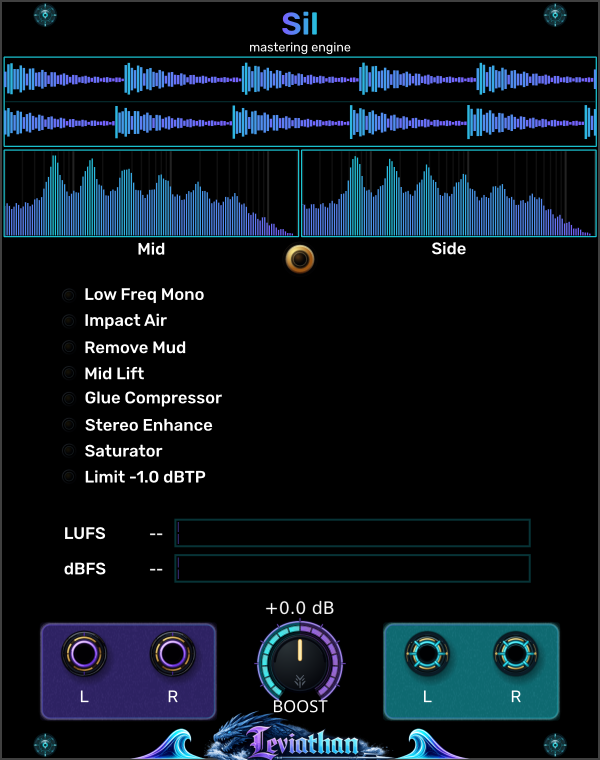
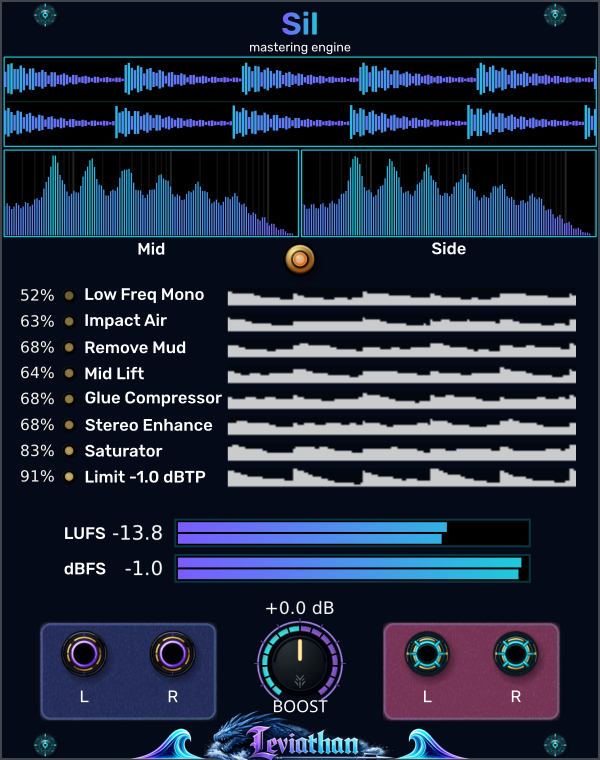
Update Sil manual

diff --git a/manuals/Sil_User_Manual.html b/manuals/Sil_User_Manual.html
@@ -1,0 +1,239 @@
+<!doctype html>
+<html lang="en"><head><meta charset="utf-8"><meta name="viewport" content="width=device-width, initial-scale=1"><meta name="description" content="Sil user manual: hear what each adaptive mastering stage changes, understand the signal chain, and use Boost, meters and bypass for useful comparisons."><title>Sil User Manual - Leviathan</title><style>
+:root {
+  color-scheme: dark;
+  --ink:#eef6ff; --muted:#a9b7c8; --deep:#070b12; --panel:#0e1520; --panel2:#121b29;
+  --cyan:#1cccd9; --purple:#7a5cff; --gold:#ebcc80; --line:#26364a; --paper:#f7f9fc;
+  --shadow:0 22px 60px rgba(0,0,0,.38);
+}
+* { box-sizing:border-box; }
+html { scroll-behavior:smooth; }
+body { margin:0; font-family:Inter,ui-sans-serif,system-ui,-apple-system,"Segoe UI",sans-serif; background:radial-gradient(circle at 78% 10%,rgba(122,92,255,.14),transparent 30rem),radial-gradient(circle at 18% 22%,rgba(28,204,217,.11),transparent 28rem),var(--deep); color:var(--ink); line-height:1.62; }
+a { color:#7feaf1; }
+.layout { display:grid; grid-template-columns:250px minmax(0,1fr); max-width:1500px; margin:auto; }
+nav { position:sticky; top:0; height:100vh; padding:30px 24px; border-right:1px solid var(--line); background:rgba(7,11,18,.9); backdrop-filter:blur(18px); overflow:auto; }
+nav .brand-home { display:block; padding:0; border-radius:7px; }
+nav .brand-home:focus-visible { outline:2px solid var(--cyan); outline-offset:4px; }
+nav .brand-lockup { display:block; width:100%; max-width:200px; height:auto; margin:0 0 20px; border-radius:7px; box-shadow:0 10px 30px rgba(0,0,0,.28); }
+nav .brand { font-size:1.25rem; letter-spacing:.18em; font-weight:800; margin-bottom:2px; }
+nav .sub { color:var(--muted); font-size:.75rem; margin-bottom:28px; }
+nav a { display:block; color:#c7d3e1; text-decoration:none; padding:7px 0; font-size:.88rem; }
+nav a:hover { color:#fff; transform:translateX(2px); }
+nav .nav-actions { margin-top:24px; }
+button { border:1px solid rgba(28,204,217,.55); background:rgba(28,204,217,.1); color:var(--ink); padding:9px 12px; border-radius:999px; cursor:pointer; }
+main { min-width:0; }
+.hero { min-height:740px; display:grid; grid-template-columns:minmax(0,1fr) minmax(200px,320px); gap:40px; align-items:center; padding:80px clamp(32px,7vw,110px); overflow:hidden; }
+.dragon-divider { position:relative; height:48px; }
+.dragon-divider img { position:absolute; left:50%; top:50%; display:block; width:min(78%,900px); height:auto; transform:translate(-50%,-50%); opacity:.42; filter:drop-shadow(0 0 22px rgba(28,204,217,.16)); pointer-events:none; user-select:none; }
+.kicker,.eyebrow { color:var(--cyan); text-transform:uppercase; letter-spacing:.2em; font-size:.72rem; font-weight:800; }
+h1 { font-size:clamp(4rem,9vw,8.2rem); line-height:.86; letter-spacing:-.075em; margin:16px 0 28px; background:linear-gradient(100deg,#865cff 0%,#c9a8ff 27%,#f6f9ff 49%,#77eaff 72%,#1cccd9 100%); -webkit-background-clip:text; background-clip:text; color:transparent; filter:drop-shadow(0 10px 28px rgba(50,124,210,.14)); }
+.deck { font-size:clamp(1.08rem,2vw,1.4rem); max-width:680px; color:#d4e0ed; }
+.chips { display:flex; flex-wrap:wrap; gap:8px; margin-top:28px; }
+.chip { border:1px solid var(--line); background:rgba(255,255,255,.035); border-radius:999px; padding:7px 11px; color:#c9d6e4; font-size:.8rem; }
+.hero-modules { display:flex; align-items:center; justify-content:center; gap:24px; perspective:1200px; }
+.hero-modules img { width:min(75%,240px); height:auto; border:1px solid rgba(255,255,255,.16); border-radius:12px; box-shadow:var(--shadow); transform:rotateY(-5deg) translateY(8px); }
+section { position:relative; isolation:isolate; padding:70px clamp(32px,7vw,110px); border-bottom:1px solid var(--line); scroll-margin-top:20px; overflow:hidden; }
+section::before { position:absolute; z-index:0; bottom:0; width:min(58vw,650px); aspect-ratio:959/376; background:url("../img/PerfectWave_KCrop.png") center bottom/contain no-repeat; content:""; opacity:.065; mix-blend-mode:screen; -webkit-mask-image:linear-gradient(90deg,transparent 0%,#000 18%,#000 82%,transparent 100%); mask-image:linear-gradient(90deg,transparent 0%,#000 18%,#000 82%,transparent 100%); pointer-events:none; }
+section:nth-of-type(odd)::before { right:0; transform:scaleX(-1); -webkit-mask-image:linear-gradient(90deg,transparent 0%,#000 18%,#000 100%); mask-image:linear-gradient(90deg,transparent 0%,#000 18%,#000 100%); }
+section:nth-of-type(even)::before { left:-5%; }
+section > * { position:relative; z-index:1; }
+.section-head { max-width:850px; margin-bottom:38px; }
+h2 { font-size:clamp(2.1rem,4.7vw,4.2rem); line-height:1; letter-spacing:-.045em; margin:8px 0 18px; }
+h3 { line-height:1.18; margin:.2rem 0 .45rem; }
+p { margin:.45rem 0 1rem; }
+.muted { color:var(--muted); }
+.callout { border-left:3px solid var(--cyan); padding:18px 22px; background:rgba(28,204,217,.07); max-width:900px; margin:30px 0; border-radius:0 12px 12px 0; }
+.callout strong { color:var(--cyan); }
+
+/* Architecture */
+.architecture { display:grid; grid-template-columns:repeat(5,minmax(120px,1fr)); gap:12px; align-items:stretch; }
+.arch-box { display:flex; flex-direction:column; align-items:center; justify-content:center; text-align:center; min-height:105px; padding:18px; border-radius:14px; border:1px solid var(--line); background:var(--panel); position:relative; font-weight:750; }
+.arch-box:not(:last-child)::after { content:""; position:absolute; right:-13px; top:50%; width:13px; border-top:2px solid var(--cyan); }
+.arch-box small { display:block; color:var(--muted); font-weight:500; margin-top:5px; font-size:.8rem; }
+
+/* Panel tour */
+.panel-tour { display:grid; grid-template-columns:minmax(220px,300px) minmax(0,1fr); gap:40px; align-items:start; }
+.annotated-panel { position:relative; width:min(100%,260px); margin:0 auto; box-shadow:var(--shadow); border-radius:12px; overflow:hidden; border:1px solid rgba(255,255,255,.1); }
+.annotated-panel img { display:block; width:100%; height:auto; }
+.control-list { display:grid; grid-template-columns:1fr; gap:12px; }
+.control-card { display:grid; grid-template-columns:34px 1fr; gap:12px; padding:18px; border-radius:14px; border:1px solid var(--line); background:rgba(14,21,32,.8); }
+.control-card .num { width:30px; height:30px; border-radius:50%; display:grid; place-items:center; background:var(--purple); font-weight:900; }
+.control-card p { color:#c2cede; font-size:.91rem; margin:.3rem 0; }
+.control-card .range { color:var(--gold); font-size:.75rem; text-transform:uppercase; letter-spacing:.06em; }
+
+.panel-overlay { position:absolute; inset:0; width:100%; height:100%; }
+.panel-overlay line { stroke:#fff; stroke-width:26; }
+.panel-overlay circle { fill:#f7fbff; stroke:var(--purple); stroke-width:42; }
+.panel-overlay text { fill:#101725; font-size:210px; font-weight:900; text-anchor:middle; dominant-baseline:central; }
+.panel-overlay a:hover circle,.panel-overlay a:focus circle { fill:var(--gold); stroke:var(--cyan); }
+.io-heading { margin-top:48px; }
+.control-card { scroll-margin-top:24px; }
+
+/* Tables */
+.table-wrap { width:100%; overflow-x:auto; border:1px solid var(--line); border-radius:14px; }
+table { width:100%; border-collapse:collapse; min-width:760px; background:rgba(12,18,28,.88); }
+th { text-align:left; color:var(--gold); font-size:.74rem; text-transform:uppercase; letter-spacing:.08em; background:#121b29; }
+th,td { padding:14px 16px; border-bottom:1px solid var(--line); vertical-align:top; }
+td { color:#cbd6e3; }
+tr:last-child td { border-bottom:0; }
+
+/* Info and recipes */
+.display-grid { display:grid; grid-template-columns:1fr 1fr; gap:24px; }
+.info-card { padding:26px; border:1px solid var(--line); border-radius:16px; background:var(--panel); }
+.info-card ul { padding-left:1.2rem; }
+.recipes { display:grid; grid-template-columns:repeat(3,minmax(0,1fr)); gap:16px; }
+.recipe { padding:24px; border:1px solid var(--line); border-radius:18px; background:linear-gradient(155deg,rgba(122,92,255,.09),rgba(28,204,217,.04)); }
+.recipe .why { color:#9feaf0; border-top:1px solid var(--line); padding-top:14px; margin-top:14px; font-size:.9rem; }
+details { border:1px solid var(--line); border-radius:12px; margin:10px 0; background:var(--panel); }
+summary { cursor:pointer; padding:16px 18px; font-weight:750; }
+details p { padding:0 18px 18px; color:#c6d2df; }
+.spec-grid { display:grid; grid-template-columns:repeat(3,1fr); gap:14px; }
+.spec { padding:20px; border:1px solid var(--line); border-radius:14px; background:var(--panel); }
+.spec strong { display:block; color:var(--gold); font-size:.73rem; text-transform:uppercase; letter-spacing:.08em; }
+footer { position:relative; min-height:150px; padding:42px clamp(32px,7vw,110px); color:var(--muted); display:flex; align-items:flex-end; justify-content:space-between; gap:30px; overflow:hidden; }
+footer span { position:relative; z-index:1; }
+
+@media (max-width:1100px) { .layout{display:block} nav{position:relative;height:auto;border-right:0;border-bottom:1px solid var(--line)} nav a{display:inline-block;margin-right:16px} .hero{grid-template-columns:1fr;} .panel-tour{grid-template-columns:1fr} .recipes{grid-template-columns:repeat(2,1fr)} }
+@media (max-width:680px) { section,.hero{padding:48px 20px} .hero{min-height:auto} .dragon-divider{height:36px}.dragon-divider img{width:100%;max-width:none;opacity:.38} .hero-modules{gap:10px} .hero-modules img{width:100%} .control-list,.display-grid,.recipes,.spec-grid{grid-template-columns:1fr} .architecture{grid-template-columns:1fr} .arch-box:not(:last-child)::after{right:50%;top:auto;bottom:-13px;height:13px;width:0;border-top:0;border-left:2px solid var(--cyan)} footer{display:block;min-height:140px;padding:36px 20px} footer span{display:block;margin-bottom:6px} }
+@media print {
+  :root{color-scheme:light} body{background:#fff;color:#101725;font-size:10.5pt} nav,.nav-actions,.dragon-divider{display:none} .layout{display:block;max-width:none} .hero{min-height:0;grid-template-columns:1fr 280px;padding:32px;border-bottom:1px solid #b9c3ce;page-break-after:always} h1{font-size:54pt;color:#152238;background:none} section{padding:28px 34px;border-color:#cdd5de} section::before{display:none} .control-card,.info-card,.recipe,.spec,details{background:#fff;border-color:#b9c3ce;color:#101725;break-inside:avoid} p,td,.control-card p,details p{color:#26364a} table{background:#fff} th{background:#eaf1f7;color:#25334a} th,td{border-color:#cdd5de} .panel-tour{grid-template-columns:220px 1fr;gap:24px} .recipes{grid-template-columns:repeat(2,1fr)} a{color:#174f7a} footer{min-height:0;border-top:1px solid #cdd5de;color:#536274}
+}
+
+/* Continue panel descriptions beneath the image in the same two-column grid. */
+.panel-reference { grid-template-columns:minmax(0,1fr) minmax(0,1fr); gap:16px 24px; align-items:start; }
+.panel-reference .annotated-panel { grid-column:1; grid-row:1 / span 3; align-self:start; margin:0 auto; }
+.panel-reference .control-card { min-width:0; align-content:start; }
+@media (max-width:1100px) and (min-width:761px) { .panel-reference { grid-template-columns:minmax(0,1fr) minmax(0,1fr); } }
+@media (max-width:760px) { .panel-reference { grid-template-columns:minmax(0,1fr); } .panel-reference .annotated-panel { grid-column:auto; grid-row:auto; margin-bottom:12px; } }
+@media print { .panel-reference { grid-template-columns:minmax(0,1fr) minmax(0,1fr); } .panel-reference .annotated-panel { grid-column:1; grid-row:1 / span 3; } }
+
+/* One-pixel tracks allow independently stacked cards without shared row gaps. */
+@media screen and (min-width:761px) {
+  .panel-reference.is-stacked { grid-auto-rows:1px; row-gap:0; }
+  .panel-reference > * { align-self:start; }
+}
+.panel-reference .output-card .num { background:#096c78; }
+
+
+.hero-modules img{width:100%;max-width:320px;transform:none}.flow{list-style:none;padding:0;display:grid;grid-template-columns:repeat(4,minmax(0,1fr));gap:12px;counter-reset:stage}.flow li{counter-increment:stage}.flow a{display:block;height:100%;padding:16px;border:1px solid var(--line);border-radius:12px;background:var(--panel);text-decoration:none}.flow a::before{content:counter(stage,decimal-leading-zero) " →";display:block;color:var(--gold);font-size:.8rem}.flow small{display:block;color:var(--muted)}.stage-title{color:var(--gold);font-size:.8rem;letter-spacing:.15em;text-transform:uppercase}.hear{font-size:1.2rem;color:#a4edf1;max-width:850px}.stage-grid{display:grid;grid-template-columns:1fr 1fr;gap:24px}.stage-grid h3{font-size:1rem;color:var(--gold)}.stage-grid>div{padding:22px;border:1px solid var(--line);border-radius:14px;background:var(--panel)}.stage-grid p:last-child{margin-bottom:0}.stage-note{margin-top:20px;color:var(--muted)}a:focus-visible,button:focus-visible,summary:focus-visible{outline:2px solid var(--cyan);outline-offset:4px}.hero{min-height:650px}nav .stage-link{font-size:.8rem;padding:4px 0 4px 12px} @media(max-width:680px){.flow,.stage-grid{grid-template-columns:1fr}.hero-modules img{max-width:300px}}@media print{.flow{grid-template-columns:repeat(4,1fr)}.flow a,.stage-grid>div{background:white;color:#101725;border-color:#b9c3ce}.hear,.stage-title,.stage-grid h3,.stage-note,.muted,.flow small{color:#26364a}.stage-grid{grid-template-columns:1fr 1fr}.stage-grid>div{break-inside:avoid}.callout{background:#edf6f7}.callout strong{color:#174f7a}}
+
+/* Numbered panel map. */
+.sil-panel-map{display:grid;grid-template-columns:repeat(2,minmax(0,1fr));gap:16px 24px;align-items:start}
+.sil-panel-map figure{margin:0;grid-column:1;grid-row:1 / span 3;min-width:0}
+.sil-panel-map>.control-card{min-width:0;align-content:start}
+@media screen and (min-width:761px){.sil-panel-map.is-stacked{grid-auto-rows:1px;row-gap:0}}
+.sil-panel-map .annotated-panel{width:100%;max-width:420px}
+.sil-panel-map figcaption{font-size:.8rem;color:var(--muted);margin-top:12px}
+.sil-panel-map .panel-overlay circle{fill:#f7fbff;stroke:#7a5cff;stroke-width:3}
+.sil-panel-map .panel-overlay text{fill:#101725;font-size:18px;font-weight:900}
+.sil-panel-map .panel-overlay line{stroke:#f7fbff;stroke-width:2}
+.sil-panel-map .panel-overlay a{cursor:pointer}
+.sil-panel-map .panel-overlay a:focus circle{fill:var(--gold);stroke:var(--cyan)}
+.sil-panel-map .output-card .num{background:#096c78}
+@media(max-width:760px){.sil-panel-map{grid-template-columns:minmax(0,1fr)}.sil-panel-map figure{grid-column:auto;grid-row:auto;max-width:420px;margin:auto}}
+@media print{.sil-panel-map{grid-template-columns:repeat(2,minmax(0,1fr));gap:16px 24px}.sil-panel-map figure{position:static}.sil-panel-map figcaption{color:#26364a}}
+</style></head><body><div class="layout"><nav aria-label="Manual navigation"><a class="brand-home" href="../index.html"><img class="brand-lockup" src="../img/Branding_Logo_Crop_Only.png" alt="Leviathan manuals home"></a><div class="brand">SIL</div><div class="sub">LEVIATHAN USER MANUAL</div>
+<a href="#start">First patch</a>
+<a href="#panel-map">Panel breakdown</a>
+<a href="#flow">How the chain fits together</a>
+<a href="#low" class="stage-link">Low Freq Mono</a>
+<a href="#air" class="stage-link">Impact Air</a>
+<a href="#mud" class="stage-link">Remove Mud</a>
+<a href="#mid" class="stage-link">Mid Lift</a>
+<a href="#glue" class="stage-link">Glue Compressor</a>
+<a href="#stereo" class="stage-link">Stereo Enhance</a>
+<a href="#saturation" class="stage-link">Saturator</a>
+<a href="#limiter" class="stage-link">Limit −1.0 dBTP</a>
+<a href="#panel">Panel & meters</a>
+<a href="#listen">Listening comparisons</a>
+<a href="#reference">Reference</a>
+<div class="nav-actions"><button onclick="window.print()">Print / Save PDF</button></div></nav><main><header class="hero"><div><p class="kicker">Leviathan for VCV Rack 2 · Open Source</p><h1>Sil</h1><p class="deck">A firmer foundation.<br>Clearer detail. A more cohesive mix.</p><p class="muted">An adaptive stereo mastering chain that listens to the signal and makes small, coordinated changes to tone, dynamics and space. This guide follows the sound through all eight stages.</p><div class="chips"><span class="chip">20 HP</span><span class="chip">Eight adaptive stages</span><span class="chip">Stereo in / out</span></div></div><div class="hero-modules"><img src="img/Sil.png" alt="Sil front panel with waveform history, Mid and Side spectra, eight stage activity rows, loudness and peak meters, Mastering button and Boost knob"></div></header><div class="dragon-divider" aria-hidden="true"><img src="../img/Leviathan_Dragon_Transparent_Refined.png" alt=""></div>
+<section id="start"><p class="eyebrow">First patch</p><h2>Start with the mix you know.</h2><ol><li>Connect your mixer’s left and right outputs to Sil’s purple L and R inputs. Connect Sil’s cyan outputs to your monitoring or recording path.</li><li>For mono, connect either input alone. Sil copies it to the other channel. Use a mixdown upstream for polyphonic sources: each input reads channel 1 only.</li><li>Leave <strong>Boost at 0 dB</strong> and <strong>Mastering enabled</strong> with the orange button below the spectra.</li><li>Play a representative passage for around ten seconds so the longer program histories can fill. Listen to bass stability, midrange clarity, stereo detail and transient shape.</li><li>Toggle Mastering to compare. Then raise Boost gradually if you want more level or density, listening for the point where attacks begin to lose their shape.</li></ol><div class="callout"><strong>Judge the sound, not the amount of activity.</strong> Each stage reacts to different features. A well-balanced passage may need very little correction. The changes described below are expected tendencies from the processing, not a promise that every source will change in every way.</div></section>
+<section id="panel-map"><p class="eyebrow">Panel breakdown</p><h2>Find your way around Sil.</h2><p>Follow the panel from analysis at the top to audio connections at the bottom. Select a numbered marker to jump to its description.</p><div class="sil-panel-map"><figure><div class="annotated-panel"><img src="img/Sil.png" alt="Sil panel with numbered locations for its displays, Mastering switch, activity rows, meters, Boost and audio jacks"><svg class="panel-overlay" viewBox="0 0 600 760" aria-label="Numbered Sil panel map">
+<a href="#sil-panel-1" aria-label="1: Waveform history"><circle cx="570" cy="102" r="20"/><text x="570" y="102">1</text></a>
+<a href="#sil-panel-2" aria-label="2: Mid / Side spectra"><circle cx="570" cy="192" r="20"/><text x="570" y="192">2</text></a>
+<a href="#sil-panel-3" aria-label="3: Mastering on / off"><circle cx="344" cy="260" r="20"/><text x="344" y="260">3</text></a>
+<a href="#sil-panel-4" aria-label="4: Stage activity"><circle cx="570" cy="385" r="20"/><text x="570" y="385">4</text></a>
+<a href="#sil-panel-5" aria-label="5: Loudness &amp; peak meters"><circle cx="570" cy="548" r="20"/><text x="570" y="548">5</text></a>
+<a href="#sil-panel-6" aria-label="6: Boost"><circle cx="365" cy="652" r="20"/><text x="365" y="652">6</text></a>
+<a href="#sil-panel-7" aria-label="7: L / R inputs"><circle cx="43" cy="607" r="20"/><text x="43" y="607">7</text></a>
+<a href="#sil-panel-8" aria-label="8: L / R outputs"><circle cx="548" cy="607" r="20"/><text x="548" y="607">8</text></a>
+</svg></div><figcaption>Numbers identify panel areas. The values in this image are an example, not recommended settings.</figcaption></figure>
+<article class="control-card" id="sil-panel-1"><span class="num">1</span><div><h3>Waveform history</h3><p class="range">Top display</p><p>Two traces show the left and right output over about ten seconds. Look here for the shape of attacks and sustained passages. The vertical scale adapts; use the level meters to compare actual output level.</p></div></article>
+<article class="control-card" id="sil-panel-2"><span class="num">2</span><div><h3>Mid / Side spectra</h3><p class="range">Below the waveform</p><p>The left pane shows shared content (Mid); the right shows channel differences (Side). Use them to see where the center and stereo detail sit in frequency. These are views of the audible output, not before/after EQ curves.</p></div></article>
+<article class="control-card" id="sil-panel-3"><span class="num">3</span><div><h3>Mastering on / off</h3><p class="range">Orange button below the spectra</p><p>Click to enable or disable the complete mastering chain. Disabled, you hear the delay-matched original without Boost or limiting. Use this button for the listening comparisons throughout this guide.</p></div></article>
+<article class="control-card" id="sil-panel-4"><span class="num">4</span><div><h3>Stage activity</h3><p class="range">Eight labeled rows</p><p>Each row has an activity percentage, a light and a short history strip. The labels follow the audio path from Low Freq Mono through the limiter. These are readouts, not individual stage switches. <a href="#panel">See how each percentage is calculated.</a></p></div></article>
+<article class="control-card" id="sil-panel-5"><span class="num">5</span><div><h3>Loudness &amp; peak meters</h3><p class="range">LUFS and dBFS bars</p><p>LUFS tracks momentary loudness; dBFS tracks sample peaks. Each pair of bars shows the two output channels. Watch these while comparing level and while increasing Boost. They follow the audible output with Mastering on or off.</p></div></article>
+<article class="control-card" id="sil-panel-6"><span class="num">6</span><div><h3>Boost</h3><p class="range">Center knob and dB readout</p><p>Turn from 0 to +6 dB to raise the signal entering the final limiter. Start at 0 dB. As the limiter catches more peaks, listen for greater density and softer attacks. <a href="#limiter">Read about Boost and limiting.</a></p></div></article>
+<article class="control-card" id="sil-panel-7"><span class="num">7</span><div><h3>L / R inputs</h3><p class="range">Purple jacks at bottom left</p><p>Connect the left and right outputs of your mix here. For mono, connect either jack alone; Sil copies it to the missing side. Each jack reads channel 1, so mix polyphonic sources down upstream.</p></div></article>
+<article class="control-card output-card" id="sil-panel-8"><span class="num">8</span><div><h3>L / R outputs</h3><p class="range">Cyan jacks at bottom right</p><p>Connect these to your stereo monitoring or recording path. Each output carries one channel. With Mastering enabled, this is the complete processed result; disabled, it is the delayed original.</p></div></article>
+</div></section>
+<section id="flow"><p class="eyebrow">Signal architecture</p><h2>Eight stages, one continuous path.</h2><p>Audio passes through the stages in this order. Each stage hears the result of the preceding processing, so a small change early in the chain can change what a later detector decides to do. Select a stage to read what it adds to the sound.</p><ol class="flow">
+<li><a href="#low">Low Freq Mono<small>Center unstable bass</small></a></li>
+<li><a href="#air">Impact Air<small>Lift highs on bass impact</small></a></li>
+<li><a href="#mud">Remove Mud<small>Clear broad low-mid buildup</small></a></li>
+<li><a href="#mid">Mid Lift<small>Restore recessed definition</small></a></li>
+<li><a href="#glue">Glue Compressor<small>Settle level contrasts</small></a></li>
+<li><a href="#stereo">Stereo Enhance<small>Open existing stereo detail</small></a></li>
+<li><a href="#saturation">Saturator<small>Add body and soften edges</small></a></li>
+<li><a href="#limiter">Limit −1.0 dBTP<small>Boost, then contain peaks</small></a></li>
+</ol><p>The order has a purpose: establish a reliable low end, adjust tonal balance, settle dynamics, refine the stereo image, then add density before the final peak control. The limiter also reports recent activity back to Mid Lift and Saturator so they can ease off when headroom is tight.</p><div class="callout"><strong>Automatic does not mean fixed.</strong> The stage amounts are continuously adapted and smoothed. Sil exposes a whole-chain Mastering switch and Boost control; there are no individual stage bypasses, threshold knobs or genre presets.</div></section>
+<section id="low"><p class="stage-title">Stage 01</p><h2>Low Freq Mono</h2><p class="hear">A steadier, more centered bass foundation.</p><div class="stage-grid"><div><h3>How it works</h3><p>Sil splits the signal at 120 Hz with a matched fourth-order Linkwitz–Riley crossover. It measures how closely the left and right low bands agree. As correlation falls, it reduces their difference and blends toward a centered reference derived from one input channel, with energy control to keep the recovery bounded.</p></div><div><h3>What to listen for</h3><p>Wide or phase-opposed bass can become more solid and survive mono playback better. The lowest part of the image moves toward the center while upper frequencies retain their stereo information. Already centered, correlated bass should need little recovery.</p></div></div><p class="stage-note">This is more than averaging L and R: a simple average could cancel opposing bass. Sil deliberately changes the low-band mono sum to recover that foundation. It does not synthesize a missing sub-octave.</p></section>
+<section id="air"><p class="stage-title">Stage 02</p><h2>Impact Air</h2><p class="hear">A small flash of brightness with low-end impact.</p><div class="stage-grid"><div><h3>How it works</h3><p>A fast envelope and a slower envelope follow the recovered low-band Mid signal. A sudden rise above the slower envelope opens a high shelf at 1 kHz, with up to 0.75 dB of lift. The lift rises and falls smoothly around the event.</p></div><div><h3>What to listen for</h3><p>On a kick-driven mix, listen for the upper edge of the mix to become slightly more articulate as the kick hits. Existing clicks, percussion and brighter textures can briefly stand out. A sustained bass drone should trigger much less of this effect.</p></div></div><p class="stage-note">The trigger is in the bass; the EQ change is in the highs. This stage lifts existing high-frequency content across the mix, so a pure low sine will not suddenly acquire a bright attack from this shelf alone.</p></section>
+<section id="mud"><p class="stage-title">Stage 03</p><h2>Remove Mud</h2><p class="hear">Less low-mid clouding; more room between sounds.</p><div class="stage-grid"><div><h3>How it works</h3><p>The detector compares energy around 180–520 Hz with bass and presence references. Additional narrow-band checks favor broad buildup over an isolated tone. When excess is detected, a broad bell centered at 315 Hz cuts by up to 2.5 dB in both channels.</p></div><div><h3>What to listen for</h3><p>Dense pads, overlapping bass parts and roomy percussion can sound less woolly or boxy. Kick and melodic detail may become easier to separate. On material that is already lean, the stage should contribute little.</p></div></div><p class="stage-note">This is selective cleanup, not a permanent low-mid scoop. If the full result feels thinner, compare the same passage with Mastering off before adding more Boost.</p></section>
+<section id="mid"><p class="stage-title">Stage 04</p><h2>Mid Lift</h2><p class="hear">A little more body and definition in the musical center.</p><div class="stage-grid"><div><h3>How it works</h3><p>After mud removal, Sil compares the core midrange with lower and higher reference bands. When the core appears recessed, a broad bell at 1.45 kHz adds up to 0.85 dB. Mud-removal activity gently encourages this response; strong upper presence and heavier limiting restrain it.</p></div><div><h3>What to listen for</h3><p>A recessed lead, vocal-like synth or chord texture may become easier to follow without a large volume change. Listen for definition and presence returning after low-mid cleanup. Already forward or bright material should receive less lift.</p></div></div><p class="stage-note">“Mid” here means midrange frequencies. This bell is applied to both left and right channels; it is different from the Mid/Side processing used by Stereo Enhance.</p></section>
+<section id="glue"><p class="stage-title">Stage 05</p><h2>Glue Compressor</h2><p class="hear">A more settled mix, with gentler level contrasts.</p><div class="stage-grid"><div><h3>How it works</h3><p>A stereo-linked RMS compressor uses a 1.5:1 ratio, a soft knee, roughly 30 ms attack and 250 ms release. Its threshold follows about ten seconds of incoming program history at this stage. A 90 Hz high-pass in the detector reduces the bass’s influence on compression. Gain reduction is capped at 3 dB, with partial automatic makeup.</p></div><div><h3>What to listen for</h3><p>Busy passages can feel more cohesive as louder moments are gently held back. The attack allows some initial transient through; the release smooths the body that follows. Both channels receive the same gain change, helping keep the image stable.</p></div></div><p class="stage-note">The 90 Hz filter is in the detector, not the audio path. Partial makeup means compression can still lower the level somewhat; this is gentle dynamic control rather than automatic loudness matching.</p></section>
+<section id="stereo"><p class="stage-title">Stage 06</p><h2>Stereo Enhance</h2><p class="hear">More space around the center, with clearer stereo detail.</p><div class="stage-grid"><div><h3>How it works</h3><p>Sil separates Mid, the shared component (L + R)/2, from Side, the difference (L − R)/2. It can cut a narrow excess around 350 Hz in Mid by up to 2 dB, and lift a broad region around 6 kHz in Side by up to 2 dB. The two decisions are independent; an already bright Side receives less lift.</p></div><div><h3>What to listen for</h3><p>A congested center may clear slightly, while panned percussion, chorus and reverb edges become more apparent. The image can feel more open without moving the recovered bass away from the center.</p></div></div><p class="stage-note">Identical left and right inputs have no Side content to brighten, so this stage does not turn a mono source into stereo. Its center cleanup can still act on a mono signal.</p></section>
+<section id="saturation"><p class="stage-title">Stage 07</p><h2>Saturator</h2><p class="hear">More density and a softly rounded edge.</p><div class="stage-grid"><div><h3>How it works</h3><p>A recent-peak history of about eight seconds guides makeup and drive. Sil blends in a biased arctangent waveshaper, which adds harmonic color and rounds peaks. It gradually reduces the nonlinear contribution near neutral settings and removes DC introduced by that contribution. Limiter feedback encourages a little more level when there is room and backs off when limiting becomes heavy.</p></div><div><h3>What to listen for</h3><p>Quieter material can feel fuller and more present; sharp edges may become smoother as harmonics fill out the sound. Expect restrained coloration rather than an abrupt distortion effect. Hot material can leave less room for additional makeup.</p></div></div><p class="stage-note">The internal makeup limit is 3.25 dB, but that is not a promise of 3.25 dB more output: shaping, blending and the final limiter all affect the result. Adaptation follows recent peaks, not an integrated LUFS target.</p></section>
+<section id="limiter"><p class="stage-title">Stage 08</p><h2>Limit −1.0 dBTP</h2><p class="hear">Controlled peaks, with increasing density as you add Boost.</p><div class="stage-grid"><div><h3>How it works</h3><p>Boost adds 0–6 dB after saturation, feeding a stereo-linked lookahead limiter. Oversampled and interpolated peak estimates anticipate overshoot; a short attack ramp and a final sample guard control the output. The nominal ceiling is −1 dB relative to Sil’s 5 V full-scale reference, about ±4.46 V.</p></div><div><h3>What to listen for</h3><p>Below the limiting threshold, more Boost mainly increases level. Once peaks reach the ceiling, additional Boost brings the body up relative to those peaks. Occasional catches may be subtle; sustained limiting can soften attacks and reduce the feeling of punch.</p></div></div><p class="stage-note">The detector includes a 0.5 dB margin. The dBTP panel label describes the intended true-peak control: the implementation uses an estimate, not a certified reconstruction guarantee. The lower dBFS meter measures sample peaks, not true peaks.</p></section>
+<section id="panel"><p class="eyebrow">Panel &amp; meters</p><h2>Read what Sil is doing.</h2><div class="display-grid"><article class="info-card"><h3>Mastering button</h3><p>The orange button beneath the spectra switches the whole chain. Disabled, it plays a delayed copy of the original input, without Boost or limiting. A roughly 10 ms crossfade softens the transition. The processing continues tracking the source while disabled, and the dry path is delayed to match the limiter’s latency.</p></article><article class="info-card"><h3>Boost</h3><p>The bottom knob adds 0–6 dB at the final limiter input; its readout shows the setting. It is not an overall “more mastering” control. The earlier adaptive stages use unboosted limiter feedback so they do not simply compensate away your Boost setting.</p></article><article class="info-card"><h3>Waveform history</h3><p>The top display shows about ten seconds of left and right output waveform history. Its scale adapts, so use the numerical meters for level comparisons rather than judging loudness from waveform height alone.</p></article><article class="info-card"><h3>Mid / Side spectra</h3><p>The two spectrum panes show shared content on the left and difference content on the right, rather than the left and right audio channels. A mono source can have a busy Mid display and an empty Side display. The displays follow the audible output, including when Mastering is disabled.</p></article><article class="info-card"><h3>LUFS and dBFS</h3><p>Paired bars show the two output channels. LUFS uses K-weighted, approximately 400 ms momentary measurements; dBFS uses sample peaks over approximately 100 ms. These are live readings, not an integrated whole-track loudness report. Sil uses 5 V as 0 dBFS and does not automatically master to a selected LUFS value.</p></article><article class="info-card"><h3>Colors</h3><p>Right-click → Visuals → Color Scheme selects Default (Purple/Cyan), Classic (Green/Red), Monochrome (Gray/White), or Fire (Red/Yellow). This changes the visualization, not the processing.</p></article></div><h3 class="io-heading">What do the stage percentages mean?</h3><p>The dots, numbers and short history strips report smoothed stage activity. They are indicators, not controls. Their scales differ: 50% on one row does not mean the same gain change as 50% on another, and none is a whole-chain wet/dry percentage.</p><div class="table-wrap"><table><thead><tr><th scope="col">Panel row</th><th scope="col">What its activity represents</th></tr></thead><tbody><tr><td>Low Freq Mono</td><td>Low-band Side power removed relative to full-band input power, with smoothing. It is not simply the amount of mono folding.</td></tr><tr><td>Impact Air</td><td>Applied shelf lift relative to its 0.75 dB maximum.</td></tr><tr><td>Remove Mud</td><td>Applied cut relative to its 2.5 dB maximum.</td></tr><tr><td>Mid Lift</td><td>Applied lift relative to its 0.85 dB maximum.</td></tr><tr><td>Glue Compressor</td><td>Gain reduction relative to the 3 dB cap, before partial makeup.</td></tr><tr><td>Stereo Enhance</td><td>Average of the normalized Mid cut and Side lift. One at maximum and the other inactive gives about 50%.</td></tr><tr><td>Saturator</td><td>A blend of makeup and drive activity, gated by signal presence; not harmonic distortion percentage.</td></tr><tr><td>Limit −1.0 dBTP</td><td>Fraction of amplitude removed by the limiter, smoothed for display. For example, 50% corresponds to roughly 6 dB of attenuation before smoothing, not 50% clipped samples.</td></tr></tbody></table></div><p class="muted">Disabling Mastering lets the stage indicators fade toward zero; their history strips can still show earlier activity.</p></section>
+<section id="listen"><p class="eyebrow">Listening comparisons</p><h2>Hear the change in context.</h2><p>Use the Mastering button to compare the complete chain on a repeating passage. Bring the louder version down with a downstream monitor trim when judging tone: a level increase can make a result seem clearer even when the main change is gain. Sil’s bypass matches delay, not perceived loudness.</p><div class="display-grid"><article class="info-card"><h3>A dense drum-and-bass passage</h3><p>Listen for a steadier bass center, less clouding behind the kick, and brighter edges arriving with bass impacts. Watch Low Freq Mono, Impact Air and Remove Mud for clues. As Boost rises, compare the kick’s attack against its body.</p></article><article class="info-card"><h3>A wide pad or reverb tail</h3><p>Listen for space around the center and clearer high-frequency detail at the edges. Stereo Enhance needs existing differences between left and right. A sustained texture may show little Impact Air activity because it has few new low-end attacks.</p></article><article class="info-card"><h3>A mono melodic part</h3><p>Patch a single input and listen for small changes in midrange definition, density and dynamics. The Side spectrum should remain empty. This is a useful way to separate tonal enhancement from the impression of stereo widening.</p></article><article class="info-card"><h3>A quiet-to-loud transition</h3><p>Let both sections run long enough to hear adaptation settle. Glue follows program level and Saturator follows recent peaks, so the response after a loud passage can differ from a fresh start. Listen over phrases rather than rapid button toggles.</p></article></div><details><summary>Why is there very little difference?</summary><p>The source may already fit the detectors’ preferred balance, have little stereo information, or leave the limiter inactive. Start at 0 dB Boost, allow time for adaptation and compare a full passage. Low activity is not a fault.</p></details><details><summary>Why is it louder but less punchy?</summary><p>Extra Boost can push more of the signal into limiting. Reduce Boost and compare the transient against the sustained body. If limiting remains heavy at 0 dB, reduce the source level feeding Sil.</p></details><details><summary>Why does the bass become narrower?</summary><p>Low Freq Mono intentionally reduces poorly correlated low-frequency Side content. That can stabilize bass on mono playback, but it also changes deliberate stereo bass movement. Compare the artistic result with Mastering disabled.</p></details><details><summary>Why does a parallel dry blend sound different?</summary><p>Sil adds about 1.5 ms of limiter delay at ordinary sample rates, and its crossover and EQ also change phase. Its own Mastering comparison delays the dry path, but an external parallel cable does not automatically match that timing or filter phase.</p></details></section>
+<section id="reference"><p class="eyebrow">Reference</p><h2>At a glance.</h2><div class="spec-grid"><div class="spec"><strong>Format</strong>VCV Rack 2 · 20 HP</div><div class="spec"><strong>Audio</strong>Stereo; channel 1 per input</div><div class="spec"><strong>Mono input</strong>Either input copies to the missing side</div><div class="spec"><strong>Controls</strong>Mastering on/off · Boost 0–6 dB</div><div class="spec"><strong>Default</strong>Mastering enabled · Boost 0 dB</div><div class="spec"><strong>Full-scale reference</strong>5 V peak = 0 dBFS</div></div><p class="muted">Checked against the local Leviathan-Rack2 implementation in Sil.cpp, SilLowBandRecovery.hpp and SilLevelMeter.hpp, October 2026. Sound descriptions explain expected behavior from the signal processing; the amount heard depends on the source. Stage frequencies and limits describe this implementation, rather than user-adjustable settings.</p></section><footer><span>© 2026 Leviathan · Sil</span><a href="../index.html">Back to manuals</a></footer></main></div><script>
+// Stack each description in the column with the next available space.
+(() => {
+  const layouts = document.querySelectorAll('.sil-panel-map');
+  const compact = window.matchMedia('(max-width:760px)');
+  function arrange(layout) {
+    const items = Array.from(layout.children);
+    if (compact.matches) {
+      layout.classList.remove('is-stacked');
+      items.forEach(item => { item.style.gridColumn = ''; item.style.gridRow = ''; });
+      return;
+    }
+    layout.classList.add('is-stacked');
+    const bottoms = [0, 0];
+    items.forEach((item, index) => {
+      const column = index === 0 ? 0 : (bottoms[0] <= bottoms[1] ? 0 : 1);
+      item.style.gridColumn = String(column + 1);
+      const height = Math.ceil(item.getBoundingClientRect().height);
+      item.style.gridRow = `${bottoms[column] + 1} / span ${Math.max(1, height)}`;
+      bottoms[column] += height + 16;
+    });
+  }
+  let scheduled = false;
+  function refresh() {
+    if (scheduled) return;
+    scheduled = true;
+    requestAnimationFrame(() => {
+      scheduled = false;
+      layouts.forEach(arrange);
+    });
+  }
+  const observer = new ResizeObserver(refresh);
+  layouts.forEach(layout => {
+    observer.observe(layout);
+    Array.from(layout.children).forEach(item => observer.observe(item));
+    layout.querySelectorAll('img').forEach(img => img.addEventListener('load', refresh));
+  });
+  compact.addEventListener('change', refresh);
+  if (document.fonts) document.fonts.ready.then(refresh);
+  window.addEventListener('beforeprint', () => {
+    layouts.forEach(layout => Array.from(layout.children).forEach(item => {
+      item.style.gridColumn = ''; item.style.gridRow = '';
+    }));
+  });
+  window.addEventListener('afterprint', refresh);
+  refresh();
+})();
+</script>
+</body></html>

diff --git a/index.html b/index.html
@@ -184,6 +184,7 @@
           </a>
           <a class="manual-card" href="manuals/TD_Scope_User_Manual.html" aria-label="Open the TD.Scope user manual"><div class="module-preview"><img src="manuals/img/TD.Scope.png" alt="TD.Scope panel artwork"></div><div class="manual-copy"><span class="status status-active">Manual available</span><p class="eyebrow">Temporal Deck companion</p><h3>TD.Scope</h3><p>Connect the waveform expander, read the playback head, and drag the display to scrub.</p><div class="open-label">Open user manual <span aria-hidden="true">→</span></div></div></a>
           <a class="manual-card" href="manuals/Undertow_User_Manual.html" aria-label="Open the Undertow user manual"><div class="module-preview"><img src="manuals/img/Undertow.png" alt="Undertow panel artwork"></div><div class="manual-copy"><span class="status status-active">Manual available</span><p class="eyebrow">Folded-wave oscillator</p><h3>Undertow</h3><p>Sine, morph, and gated sub-octave voices, with pitch control, linear FM, and hard sync.</p><div class="open-label">Open user manual <span aria-hidden="true">→</span></div></div></a>
+          <a class="manual-card" href="manuals/Sil_User_Manual.html" aria-label="Open the Sil user manual"><div class="module-preview"><img src="manuals/img/Sil.png" alt="Sil mastering engine front panel"></div><div class="manual-copy"><span class="status status-active">Manual available</span><p class="eyebrow">Adaptive stereo mastering</p><h3>Sil</h3><p>Follow all eight stages from bass recovery to peak control. Learn what each changes, what to listen for, and how to compare with Boost and bypass.</p><div class="open-label">Open user manual <span aria-hidden="true">→</span></div></div></a>
           <a class="manual-card" href="manuals/Strand_User_Manual.html" aria-label="Open the Strand user manual">
             <div class="module-preview"><img src="manuals/img/Strand.png" alt="Strand panel artwork" style="max-width:70px"></div>
             <div class="manual-copy"><span class="status status-active">Manual available</span><p class="eyebrow">Pseudo-cycle interleaver</p><h3>Strand</h3><p>Weave captured A and B cycles into a new waveform. Includes an interactive explanation of the interleaving and output sequence rate.</p><div class="open-label">Open user manual <span aria-hidden="true">→</span></div></div>
@@ -299,8 +300,8 @@
                   <div class="mod-name">Sil <span class="tag-hp">20 HP</span></div>
                 </td>
                 <td>Dynamics, EQ, Mastering</td>
-                <td>Automatic mastering module with dynamics processing and EQ.</td>
-                <td><span class="badge-planned">Manual planned</span></td>
+                <td>Adaptive stereo mastering with tonal cleanup, dynamics, stereo enhancement, and peak control.</td>
+                <td><a class="badge-available" href="manuals/Sil_User_Manual.html">User Manual →</a></td>
               </tr>
               <tr>
                 <td>
